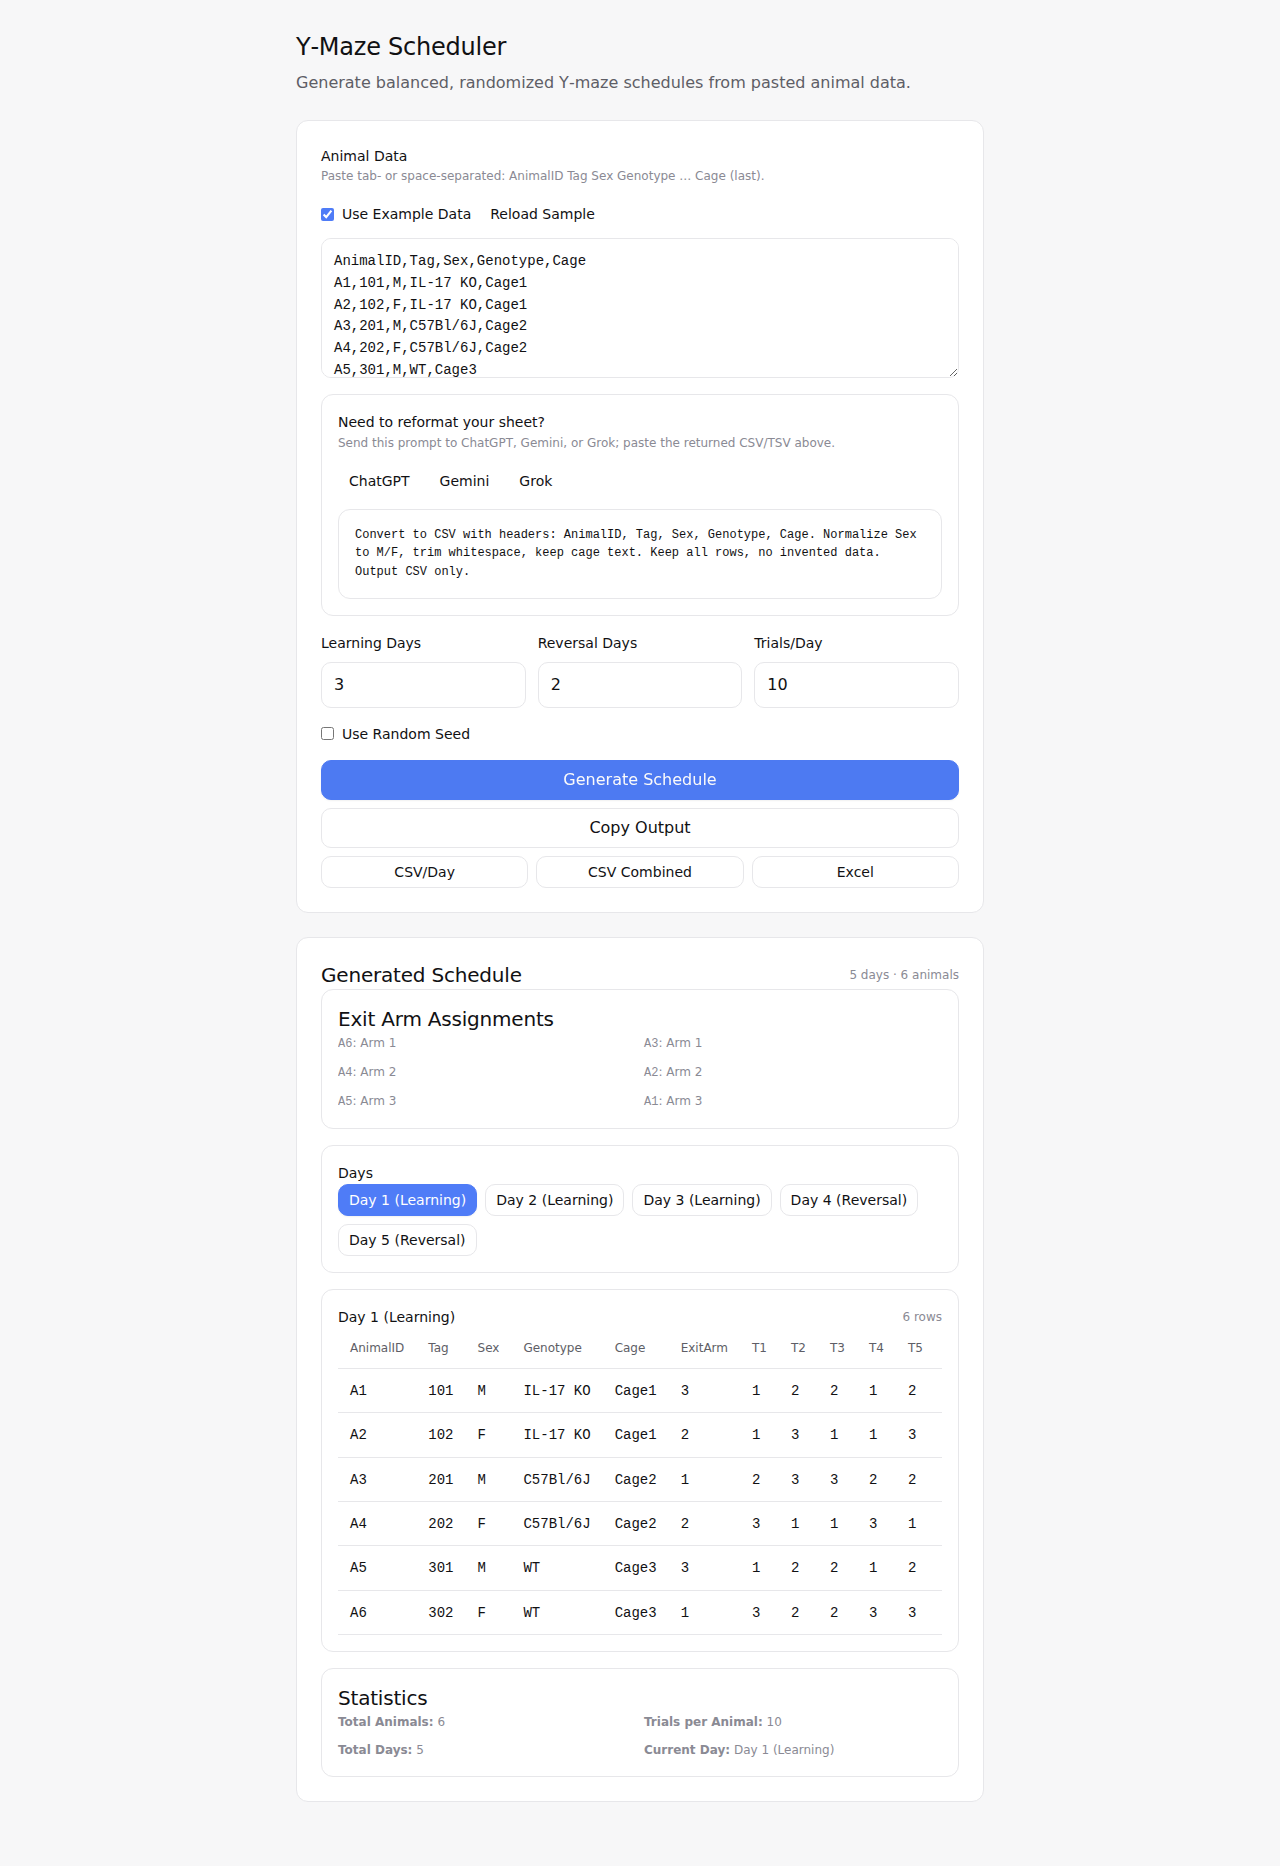
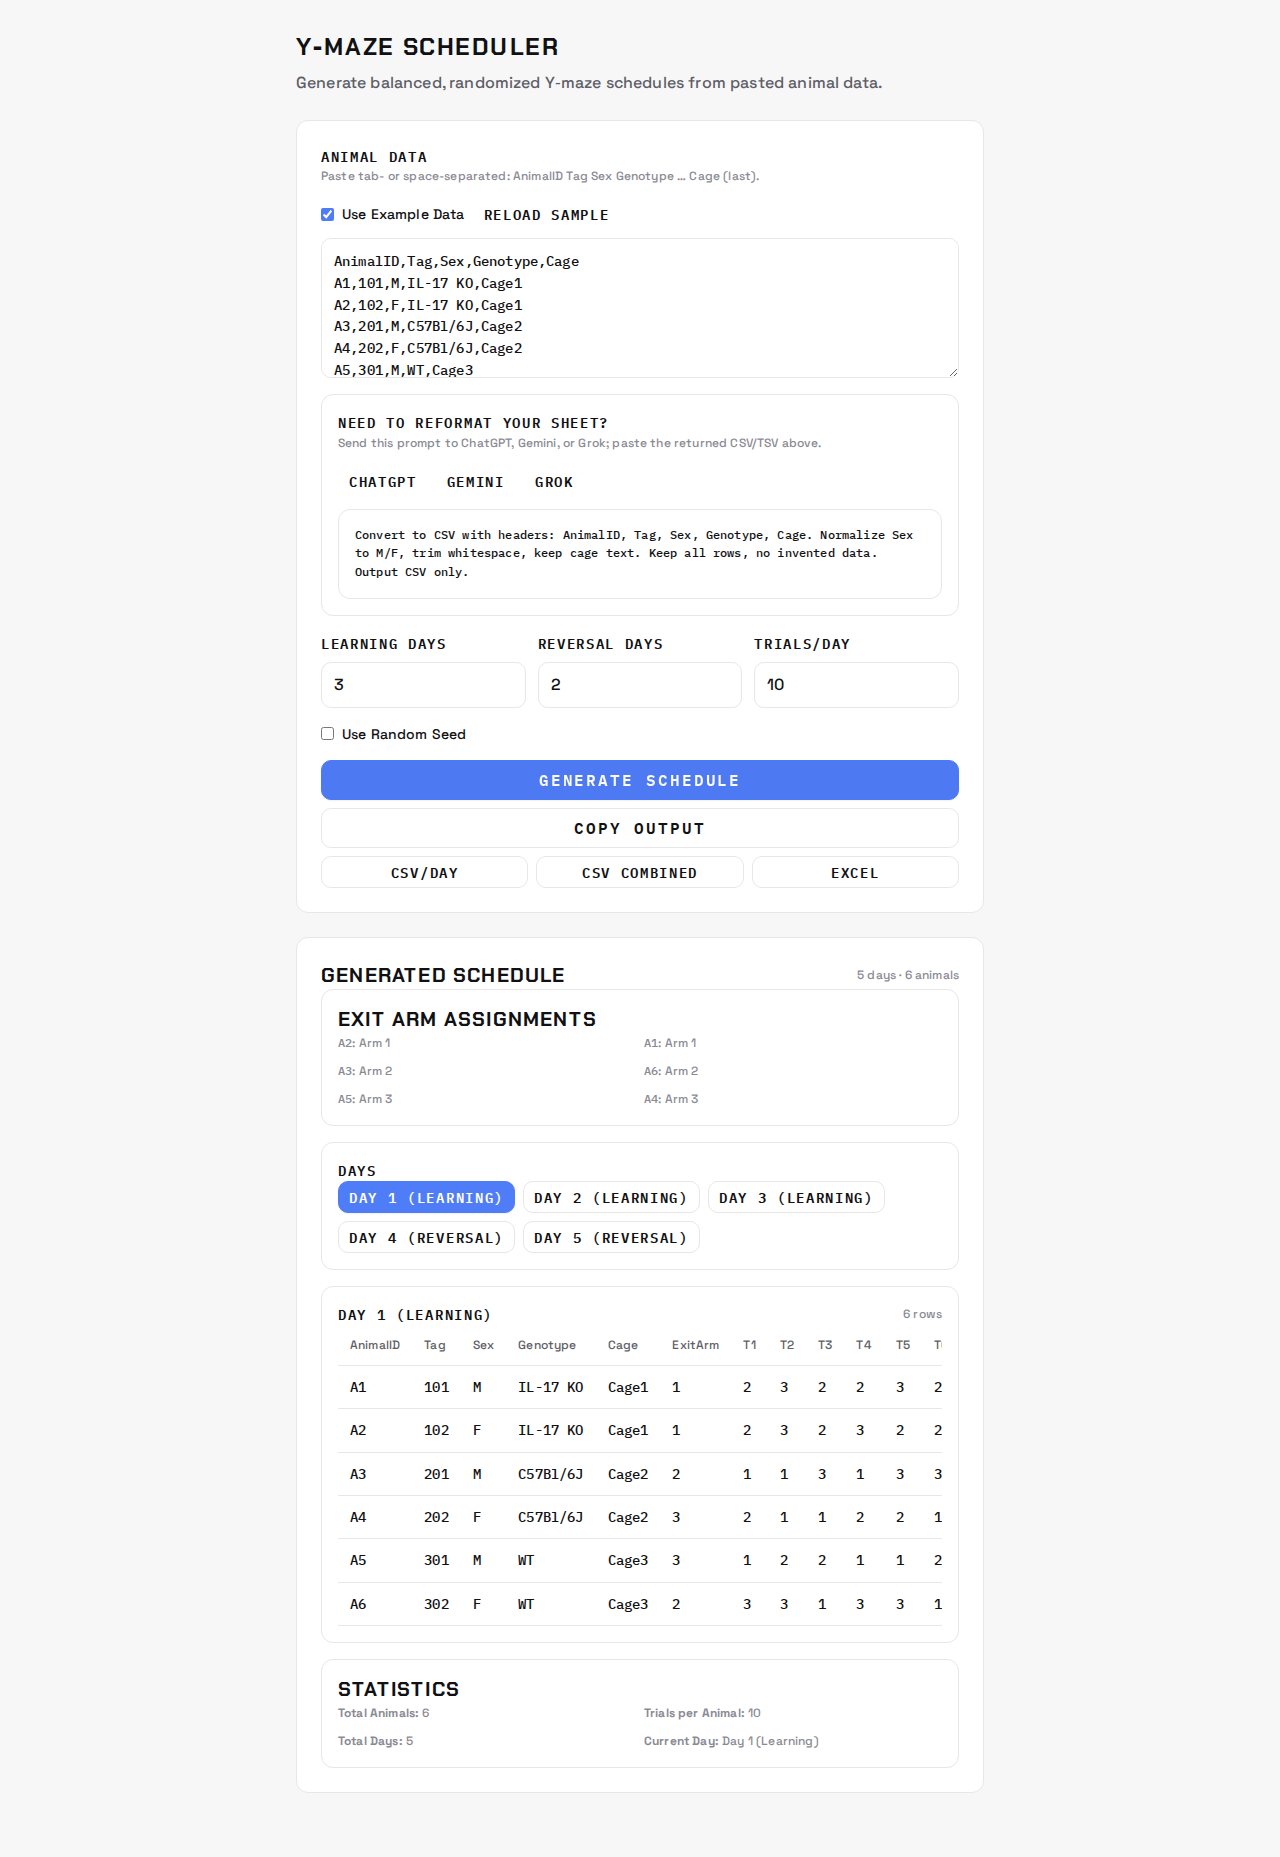
feat: neo-brutal typography refresh

diff --git a/modern-app/src/index.css b/modern-app/src/index.css
@@ -1,3 +1,5 @@
+@import url("https://fonts.googleapis.com/css2?family=Chakra+Petch:wght@500;600;700&family=IBM+Plex+Mono:wght@400;500;600&family=Space+Grotesk:wght@400;500;600;700&display=swap");
+
 @tailwind base;
 @tailwind components;
 @tailwind utilities;
@@ -29,8 +31,13 @@
 
     --shadow-1: 0 1px 2px rgba(0, 0, 0, 0.06);
 
-    --font-sans: Inter, system-ui, -apple-system, Segoe UI, Roboto, Arial, sans-serif;
-    --font-mono: ui-monospace, SFMono-Regular, Menlo, Monaco, Consolas, "Liberation Mono", monospace;
+    --font-display: "Chakra Petch", "Space Grotesk", system-ui, sans-serif;
+    --font-body: "Space Grotesk", system-ui, sans-serif;
+    --font-sans: var(--font-body);
+    --font-mono: "IBM Plex Mono", ui-monospace, SFMono-Regular, Menlo, Monaco, Consolas, "Liberation Mono", monospace;
+
+    --tracking-display: 0.06em;
+    --tracking-label: 0.12em;
 
     --content-max: 720px;
     --t-fast: 140ms ease-out;
@@ -121,6 +128,19 @@
     color: var(--text);
     font-size: 16px;
     line-height: 1.6;
+    font-weight: 500;
+    letter-spacing: 0.01em;
+  }
+
+  h1,
+  h2,
+  h3,
+  h4,
+  h5 {
+    font-family: var(--font-display);
+    font-weight: 700;
+    text-transform: uppercase;
+    letter-spacing: var(--tracking-display);
   }
 
   input[type="checkbox"],
@@ -188,16 +208,20 @@
     margin: 0;
     font-size: 24px;
     line-height: 1.25;
-    letter-spacing: -0.01em;
-    font-weight: 500;
+    letter-spacing: var(--tracking-display);
+    font-weight: 700;
+    font-family: var(--font-display);
+    text-transform: uppercase;
   }
 
   .ui-h2 {
     margin: 0;
     font-size: 20px;
     line-height: 1.35;
-    letter-spacing: -0.01em;
-    font-weight: 500;
+    letter-spacing: var(--tracking-display);
+    font-weight: 700;
+    font-family: var(--font-display);
+    text-transform: uppercase;
   }
 
   .ui-subtitle {
@@ -234,8 +258,11 @@
 
   .ui-label {
     font-size: 14px;
-    font-weight: 500;
+    font-weight: 600;
     color: var(--text);
+    font-family: var(--font-mono);
+    letter-spacing: var(--tracking-label);
+    text-transform: uppercase;
   }
 
   .ui-hint {
@@ -302,7 +329,10 @@
     background: var(--surface);
     color: var(--text);
     text-decoration: none;
-    font-weight: 500;
+    font-weight: 600;
+    font-family: var(--font-mono);
+    letter-spacing: var(--tracking-label);
+    text-transform: uppercase;
     cursor: pointer;
     user-select: none;
     transition: background-color var(--t-fast), border-color var(--t-fast), box-shadow var(--t-fast), transform var(--t-fast), filter var(--t-fast);
@@ -369,6 +399,9 @@
     color: var(--text-2);
     font-size: 12px;
     line-height: 1;
+    font-family: var(--font-mono);
+    letter-spacing: var(--tracking-label);
+    text-transform: uppercase;
   }
 
   .ui-alert {

diff --git a/README.md b/README.md
@@ -10,7 +10,7 @@ Modern React + FastAPI app under `modern-app/`. Legacy Tkinter GUI is documented
 
 ## Modern web app (preferred)
 - See `modern-app/README.md` for setup and dev commands.
-- Example run (Playwright E2E with bundled data — refreshed Dec 1, 2025): ![Y-maze scheduler app screenshot](modern-app/screenshots/example_run.png)
+- Example run (Playwright E2E with bundled data — refreshed Dec 25, 2025): ![Y-maze scheduler app screenshot](modern-app/screenshots/example_run.png)
 - Latest verification: `npm run test:e2e` (starts Vite front-end on :5175 and FastAPI back-end on :8000, drives the example flow, regenerates the screenshot above).
 
 ## Legacy Tkinter GUI (archived)
